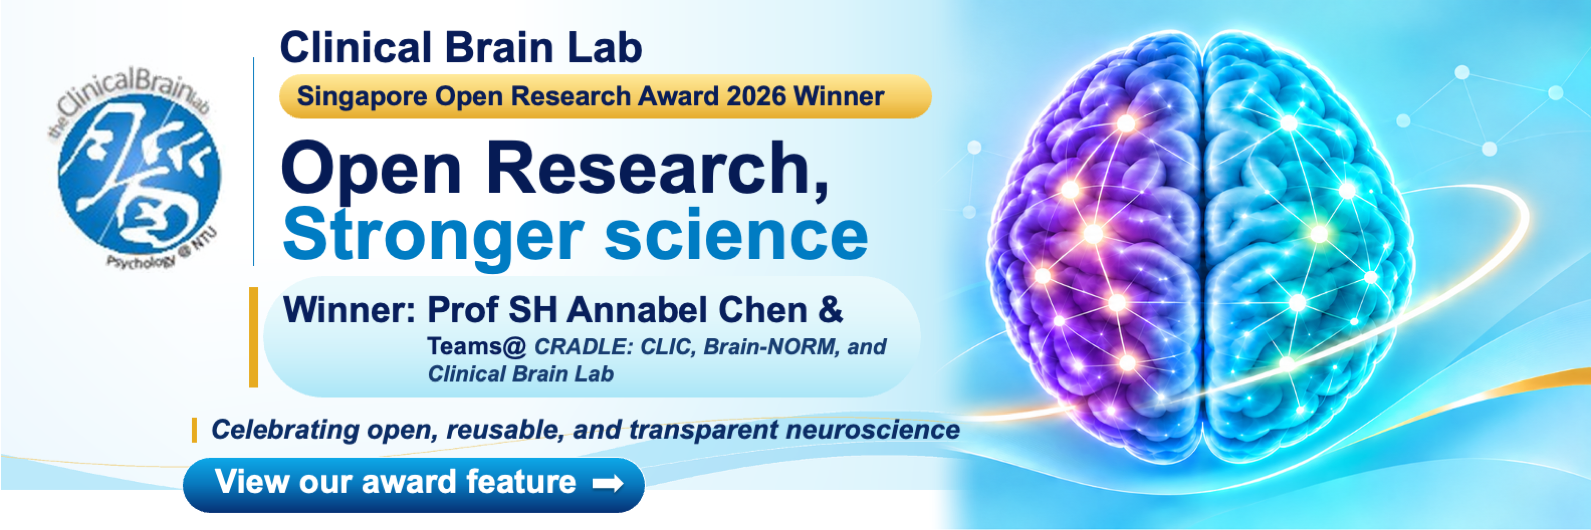
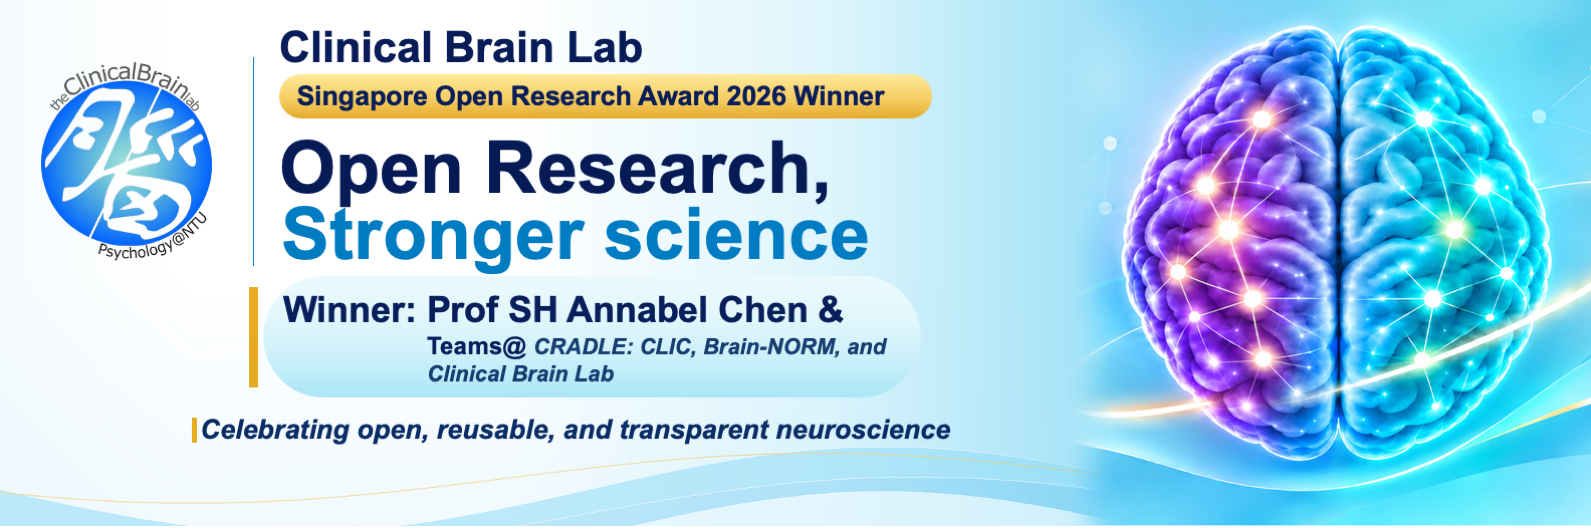
Deploying to master from @ ClinicalBrainLab/clinicalbrainlab.github.io@627aa2bbc0ef791b2ef49a49f994637bb0eea934 🚀

diff --git a/publication/index.html b/publication/index.html
@@ -5821,7 +5821,7 @@
         
 
   
-  <span ><a href="/author/alicia-goodwill/">Alicia Goodwill</a></span>, <span ><a href="/author/wilson-lim/">Wilson Lim</a></span>, <span ><a href="/author/shahid-bashir/">Shahid-Bashir</a></span>, <span ><a href="/author/ryo-kitada/">Ryo-Kitada</a></span>, <span ><a href="/author/wenxuan-cheng/">Cheng Wenxuan</a></span>, <span ><a href="/author/annabel-chen/">Annabel Chen</a></span>
+  <span ><a href="/author/alicia-goodwill/">Alicia Goodwill</a></span>, <span ><a href="/author/wilson-lim/">Wilson Lim</a></span>, <span ><a href="/author/shahid-bashir/">Shahid Bashir</a></span>, <span ><a href="/author/ryo-kitada/">Ryo-Kitada</a></span>, <span ><a href="/author/wenxuan-cheng/">Cheng Wenxuan</a></span>, <span ><a href="/author/annabel-chen/">Annabel Chen</a></span>
       </div>
       
     </div>
@@ -8876,7 +8876,7 @@
         
 
   
-  <span ><a href="/author/sagarika-bhattacharjee/">Sagarika Bhattacharjee</a></span>, <span ><a href="/author/rajan-kashyap/">Rajan Kashyap</a></span>, <span ><a href="/author/turki-abualait/">Turki Abualait</a></span>, <span ><a href="/author/annabel-chen/">Annabel Chen</a></span>, <span ><a href="/author/woo-kyoung-yoo/">Woo-Kyoung Yoo</a></span>, <span ><a href="/author/shahid-bashir/">Shahid-Bashir</a></span>
+  <span ><a href="/author/sagarika-bhattacharjee/">Sagarika Bhattacharjee</a></span>, <span ><a href="/author/rajan-kashyap/">Rajan Kashyap</a></span>, <span ><a href="/author/turki-abualait/">Turki Abualait</a></span>, <span ><a href="/author/annabel-chen/">Annabel Chen</a></span>, <span ><a href="/author/woo-kyoung-yoo/">Woo-Kyoung Yoo</a></span>, <span ><a href="/author/shahid-bashir/">Shahid Bashir</a></span>
       </div>
       
     </div>

diff --git a/author/shahid-bashir/index.html b/author/shahid-bashir/index.html
@@ -273,7 +273,7 @@
   
   <meta property="og:site_name" content="The Clinical Brain Lab">
   <meta property="og:url" content="https://clinicalbrainlab.github.io/author/shahid-bashir/">
-  <meta property="og:title" content="Shahid-Bashir | The Clinical Brain Lab">
+  <meta property="og:title" content="Shahid Bashir | The Clinical Brain Lab">
   <meta property="og:description" content="Clinical Brain Lab at Nanyang Technological University"><meta property="og:image" content="https://clinicalbrainlab.github.io/images/logo_hu_ca7e68c1fc50545b.png">
   <meta property="twitter:image" content="https://clinicalbrainlab.github.io/images/logo_hu_ca7e68c1fc50545b.png"><meta property="og:locale" content="en-us">
   
@@ -294,7 +294,7 @@
 
 
 
-  <title>Shahid-Bashir | The Clinical Brain Lab</title>
+  <title>Shahid Bashir | The Clinical Brain Lab</title>
 
 </head>
 
@@ -715,7 +715,7 @@
 
 
 <div class="universal-wrapper pt-3">
-  <h1>Shahid-Bashir</h1>
+  <h1>Shahid Bashir</h1>
 </div>
 
 

diff --git a/project/ageing/index.html b/project/ageing/index.html
@@ -1982,7 +1982,7 @@ Therefore, we proposed and developed an intervention program (<strong>ExCITE: Ex
         
 
   
-  <span ><a href="/author/alicia-goodwill/">Alicia Goodwill</a></span>, <span ><a href="/author/wilson-lim/">Wilson Lim</a></span>, <span ><a href="/author/shahid-bashir/">Shahid-Bashir</a></span>, <span ><a href="/author/ryo-kitada/">Ryo-Kitada</a></span>, <span ><a href="/author/wenxuan-cheng/">Cheng Wenxuan</a></span>, <span ><a href="/author/annabel-chen/">Annabel Chen</a></span>
+  <span ><a href="/author/alicia-goodwill/">Alicia Goodwill</a></span>, <span ><a href="/author/wilson-lim/">Wilson Lim</a></span>, <span ><a href="/author/shahid-bashir/">Shahid Bashir</a></span>, <span ><a href="/author/ryo-kitada/">Ryo-Kitada</a></span>, <span ><a href="/author/wenxuan-cheng/">Cheng Wenxuan</a></span>, <span ><a href="/author/annabel-chen/">Annabel Chen</a></span>
       </div>
       
     </div>

diff --git a/publication/2020_m1-review/index.html b/publication/2020_m1-review/index.html
@@ -802,7 +802,7 @@
     
 
   
-  <span ><a href="/author/sagarika-bhattacharjee/">Sagarika Bhattacharjee</a></span>, <span ><a href="/author/rajan-kashyap/">Rajan Kashyap</a></span>, <span ><a href="/author/turki-abualait/">Turki Abualait</a></span>, <span ><a href="/author/annabel-chen/">Annabel Chen</a></span>, <span ><a href="/author/woo-kyoung-yoo/">Woo-Kyoung Yoo</a></span>, <span ><a href="/author/shahid-bashir/">Shahid-Bashir</a></span>
+  <span ><a href="/author/sagarika-bhattacharjee/">Sagarika Bhattacharjee</a></span>, <span ><a href="/author/rajan-kashyap/">Rajan Kashyap</a></span>, <span ><a href="/author/turki-abualait/">Turki Abualait</a></span>, <span ><a href="/author/annabel-chen/">Annabel Chen</a></span>, <span ><a href="/author/woo-kyoung-yoo/">Woo-Kyoung Yoo</a></span>, <span ><a href="/author/shahid-bashir/">Shahid Bashir</a></span>
   </div>
   
   

diff --git a/publication/2023_tmseeg-youngold/index.html b/publication/2023_tmseeg-youngold/index.html
@@ -804,7 +804,7 @@
     
 
   
-  <span ><a href="/author/alicia-goodwill/">Alicia Goodwill</a></span>, <span ><a href="/author/wilson-lim/">Wilson Lim</a></span>, <span ><a href="/author/shahid-bashir/">Shahid-Bashir</a></span>, <span ><a href="/author/ryo-kitada/">Ryo-Kitada</a></span>, <span ><a href="/author/wenxuan-cheng/">Cheng Wenxuan</a></span>, <span ><a href="/author/annabel-chen/">Annabel Chen</a></span>
+  <span ><a href="/author/alicia-goodwill/">Alicia Goodwill</a></span>, <span ><a href="/author/wilson-lim/">Wilson Lim</a></span>, <span ><a href="/author/shahid-bashir/">Shahid Bashir</a></span>, <span ><a href="/author/ryo-kitada/">Ryo-Kitada</a></span>, <span ><a href="/author/wenxuan-cheng/">Cheng Wenxuan</a></span>, <span ><a href="/author/annabel-chen/">Annabel Chen</a></span>
   </div>
   
   

diff --git a/authors/page/18/index.html b/authors/page/18/index.html
@@ -761,7 +761,7 @@
       <li><a href="https://clinicalbrainlab.github.io/author/ryo-kitada/">Ryo-Kitada</a></li>
     
       
-      <li><a href="https://clinicalbrainlab.github.io/author/shahid-bashir/">Shahid-Bashir</a></li>
+      <li><a href="https://clinicalbrainlab.github.io/author/shahid-bashir/">Shahid Bashir</a></li>
     
       
       <li><a href="https://clinicalbrainlab.github.io/author/wei-ting-serena-chua/">Wei Ting Serena Chua</a></li>
